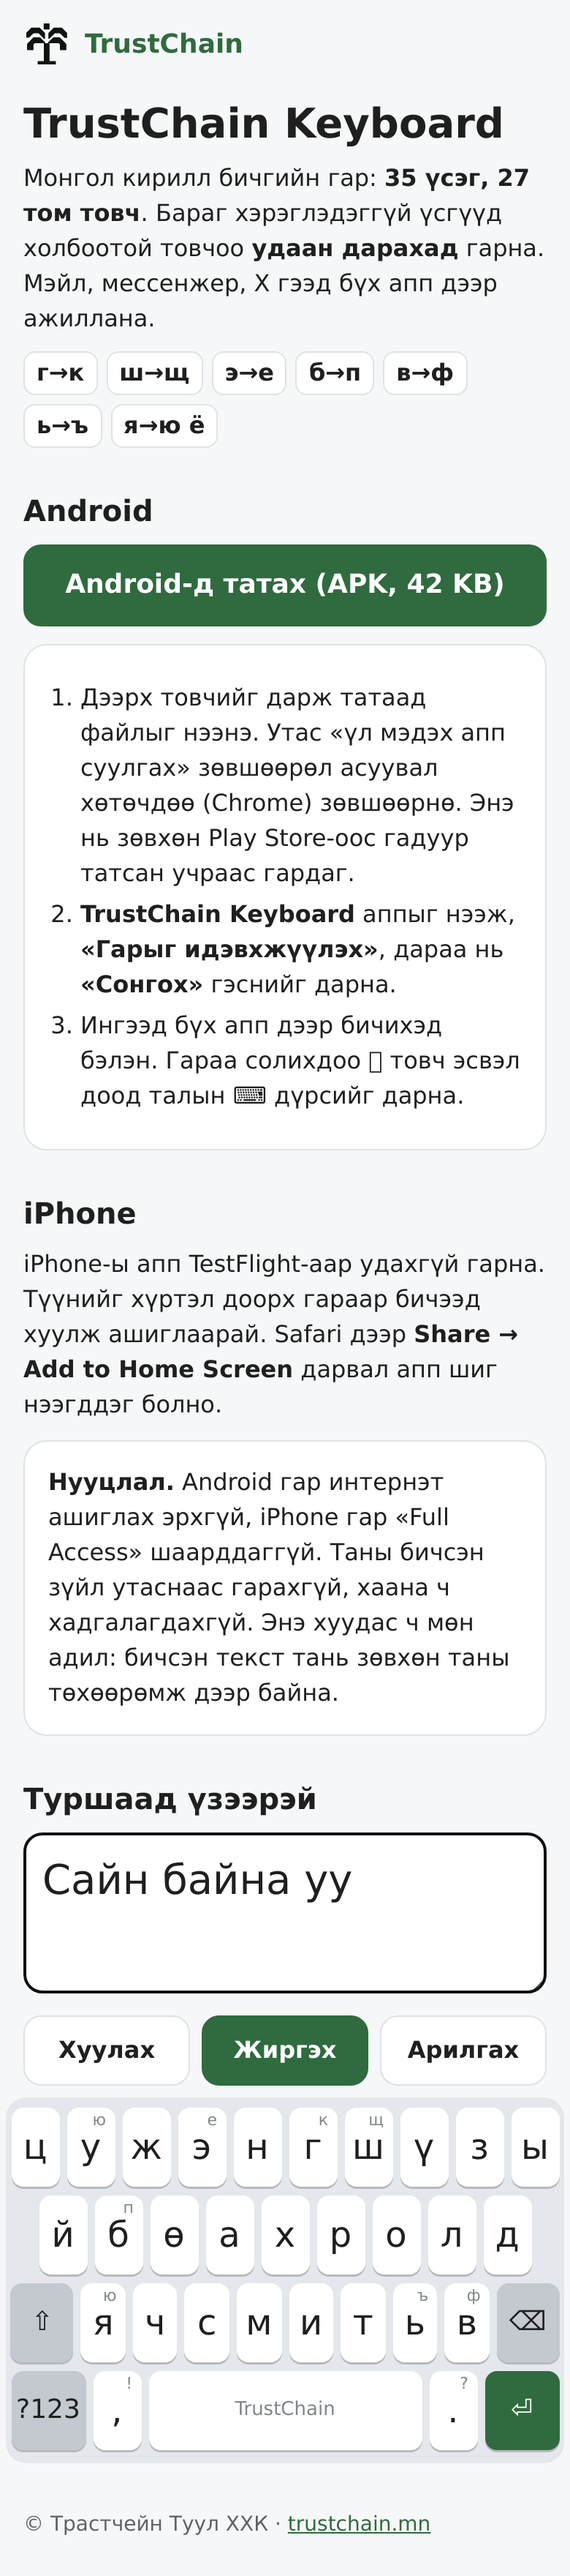
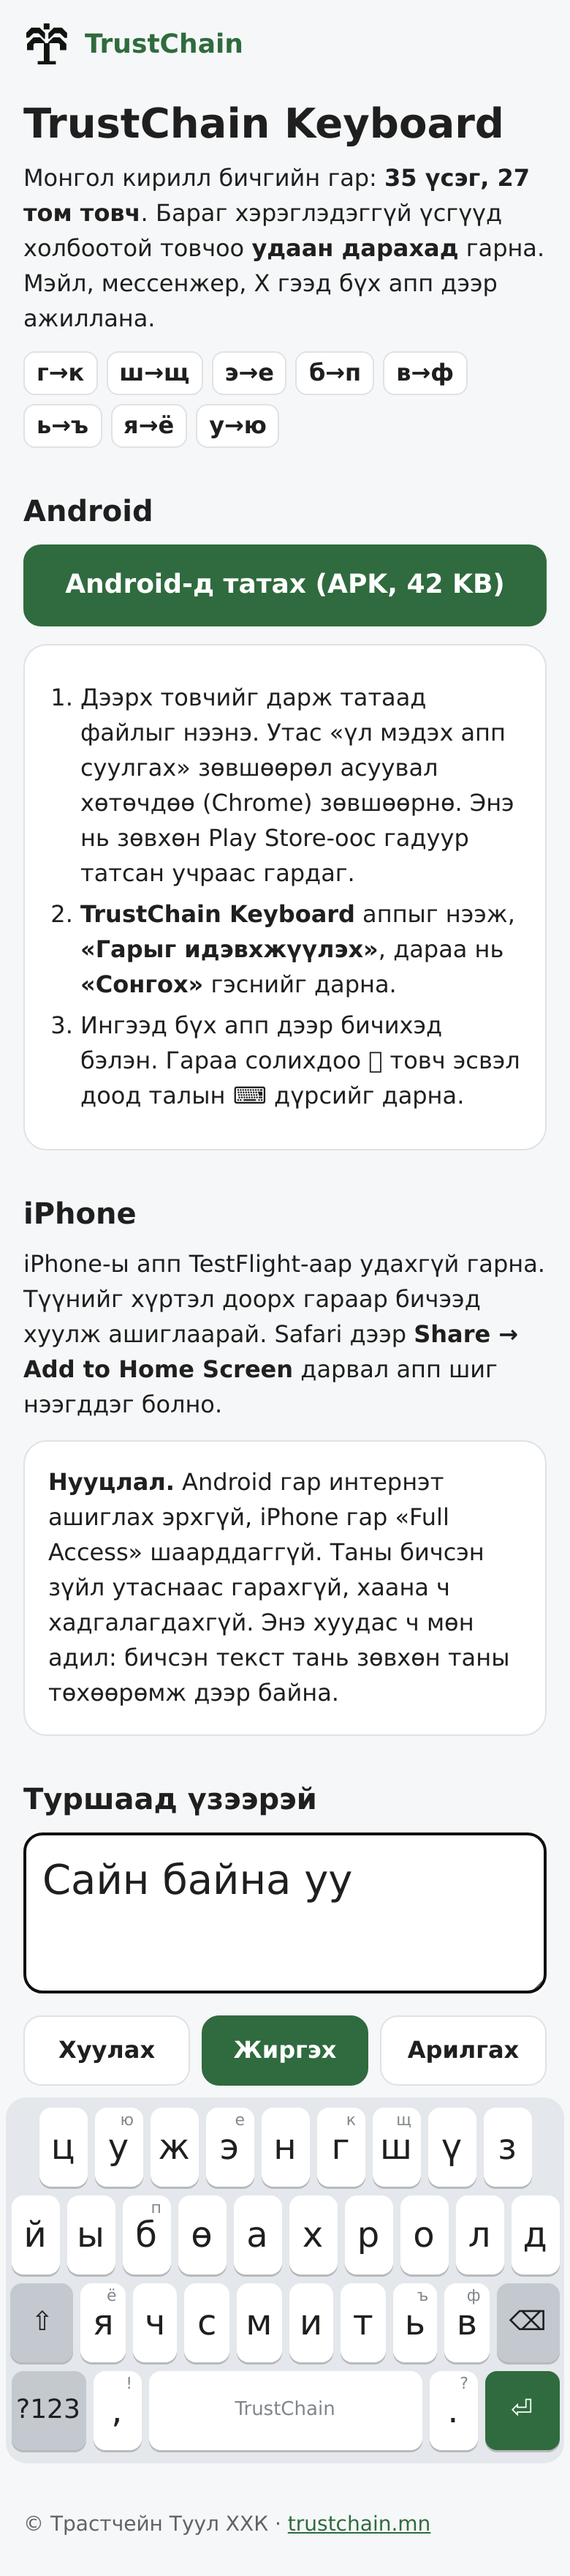
Layout step 2: ы back to its standard place (й ы б…); я→ё only, у→ю only; Android 1.0.6
Claude-Session: https://claude.ai/code/session_01GwrqJs8sqTnCJ6VLUoUTLg

diff --git a/ios/UITests/KeyboardUITests.swift b/ios/UITests/KeyboardUITests.swift
@@ -128,11 +128,11 @@ final class KeyboardUITests: XCTestCase {
             let y = 8 + 54 * (CGFloat(row) + 0.5)
             return ourKeyboard.coordinate(withNormalizedOffset: .zero).withOffset(CGVector(dx: x, dy: y))
         }
-        // Row 2 (index 1): й б ө а х р о л д (9 keys, centred)
-        key(row: 1, index: 3, keysInRow: 9).tap()   // а → "А" (auto-capital at the start)
-        key(row: 1, index: 7, keysInRow: 9).tap()   // л
-        key(row: 1, index: 8, keysInRow: 9).tap()   // д
-        key(row: 1, index: 1, keysInRow: 9).press(forDuration: 0.8) // hold б → popup, first option п, release types it
+        // Row 2 (index 1): й ы б ө а х р о л д (10 keys)
+        key(row: 1, index: 4, keysInRow: 10).tap()   // а → "А" (auto-capital at the start)
+        key(row: 1, index: 8, keysInRow: 10).tap()   // л
+        key(row: 1, index: 9, keysInRow: 10).tap()   // д
+        key(row: 1, index: 2, keysInRow: 10).press(forDuration: 0.8) // hold б → popup, first option п, release types it
         sleep(1)
         shot("4-typed", app)
         XCTAssertEqual(field.value as? String, "Алдп")

diff --git a/web/index.html b/web/index.html
@@ -60,7 +60,7 @@ footer a{color:var(--brand)}
 
   <h1>TrustChain Keyboard</h1>
   <p>Монгол кирилл бичгийн гар: <b>35 үсэг, 27 том товч</b>. Бараг хэрэглэдэггүй үсгүүд холбоотой товчоо <b>удаан дарахад</b> гарна. Мэйл, мессенжер, X гээд бүх апп дээр ажиллана.</p>
-  <div class="pairs" aria-label="Удаан дарахад гарах үсгүүд"><span>г→к</span><span>ш→щ</span><span>э→е</span><span>б→п</span><span>в→ф</span><span>ь→ъ</span><span>я→ю ё</span></div>
+  <div class="pairs" aria-label="Удаан дарахад гарах үсгүүд"><span>г→к</span><span>ш→щ</span><span>э→е</span><span>б→п</span><span>в→ф</span><span>ь→ъ</span><span>я→ё</span><span>у→ю</span></div>
 
   <h2>Android</h2>
   <a class="btn primary big" href="trustchain-keyboard.apk" download>Android-д татах (APK, 42 KB)</a>

diff --git a/launch/feedback.md b/launch/feedback.md
@@ -20,6 +20,11 @@ Owner: "revert the keyboards, it's become way harder to type; iterate small from
 - **C2 done**: no у→ү / о→ө long-press.
 - Owner to try: keep or roll back. Optional short retest (T1a + T5).
 
+## Step 2 (2026-11-05): Android 1.0.6, next iOS build
+- Owner: ы on the top row is too hard to unlearn, though the narrowing rows looked nice. **ы is back in its standard place** (`ц у ж э н г ш ү з` / `й ы б ө а х р о л д`); rows are 9/10/8 again.
+- **ё no longer looks missing, ю no longer duplicated:** я→ё only, у→ю only. Cause: the corner hint shows only the first long-press letter, so ё was invisible behind ю.
+- Owner to try: keep or roll back.
+
 ## Ideas for later
 - **Slide/swipe to type** in Cyrillic (the owner has always wanted it). Needs a Mongolian word list; `spec/wordfreq.json` already has the top 50k words.
 - Typing-test finding to check: **ъ** is common in casual "let's" forms (авъя, ярилцъя, алхъя, даръя, оръё), so maybe it shouldn't be hidden behind Ь.
